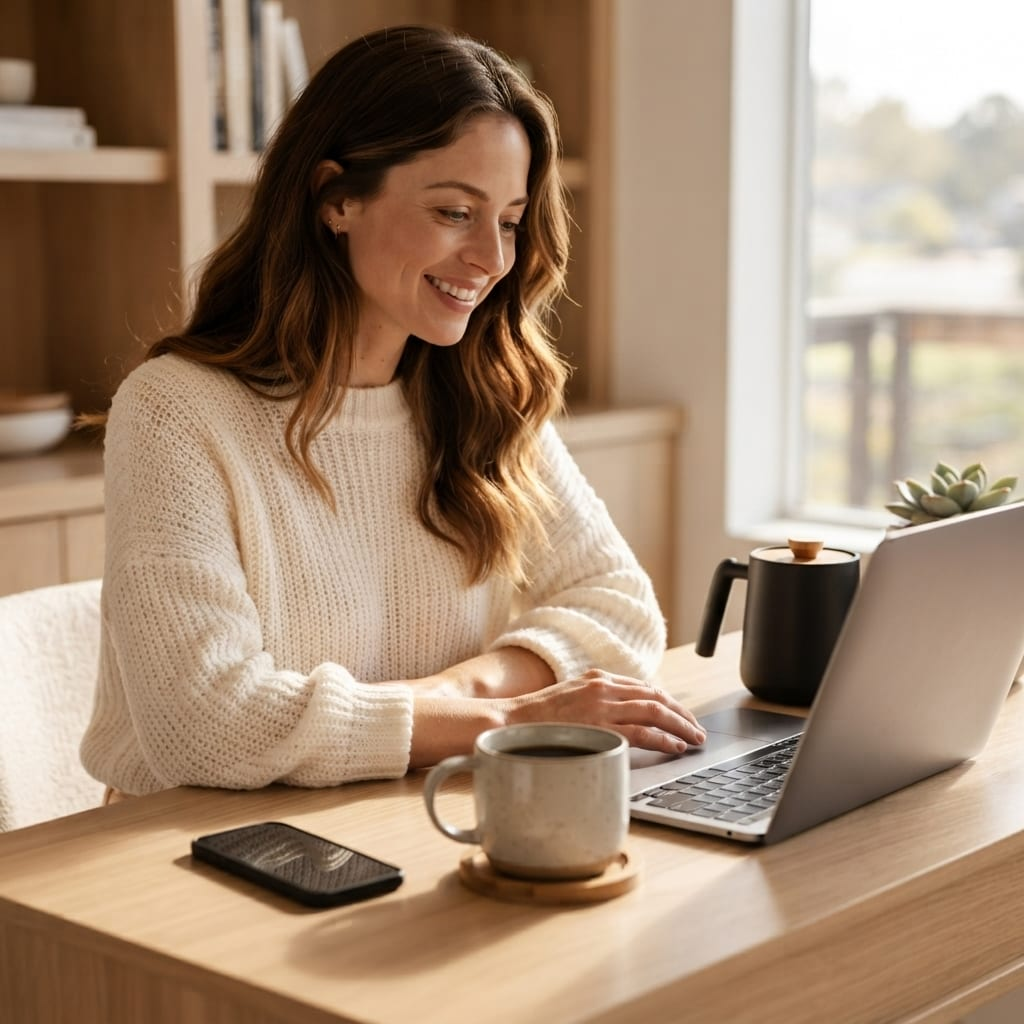
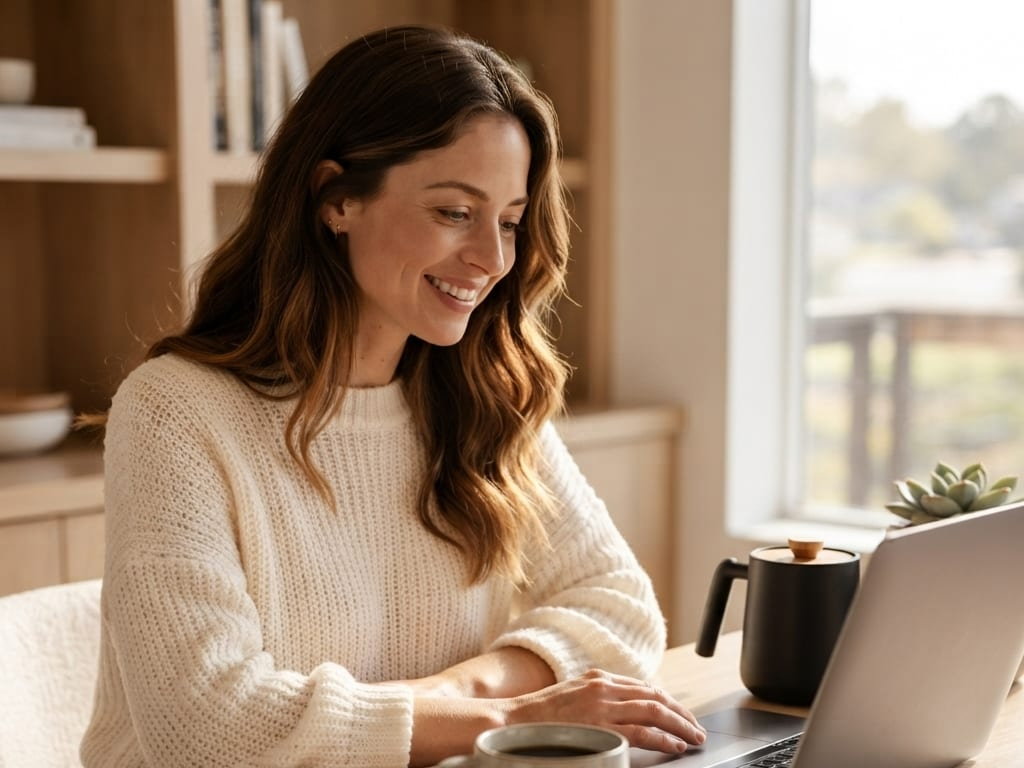
Corregir fotos de laptop y sofá en la sales page
Revierte afterreviews.jpg a la original (se había reemplazado por
error). La foto del sofá va en quizintro.jpg, mostrada completa sin
recortar. La foto de la laptop (week3.jpg) pasa a formato 4:3 para
que se vea el escritorio completo, no solo la cara.

diff --git a/src/ArticlePage.jsx b/src/ArticlePage.jsx
@@ -204,7 +204,7 @@ export default function ArticlePage({ content }) {
             {c.week3Title}
           </h2>
           <Paragraphs text={c.week3Text} />
-          <ImagePlaceholder src={c.week3Image} label={c.week3ImageLabel} />
+          <ImagePlaceholder src={c.week3Image} label={c.week3ImageLabel} tall />
         </FadeIn>
 
         {/* WEEK 4 */}
